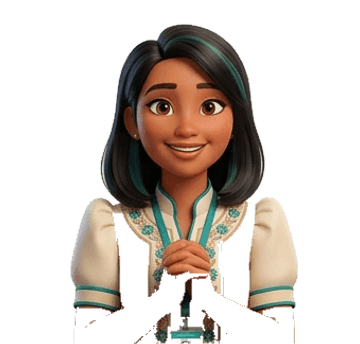
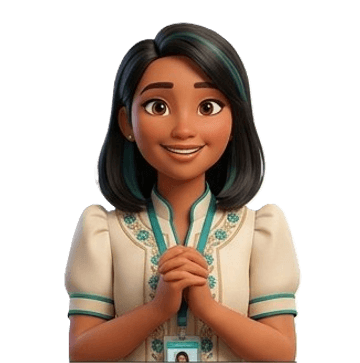
Use the user's cleanly-cut artwork and add a welcome hand-wave
Replaces the artwork with the user's own background-removed PNGs
(fixes the cropped-hands and stray-pixel issues from the previous
processing pipeline) and recalibrates the eye-blink overlay's position
for the new framing.

Adds a hand-wave for the welcome state: the celebrating (raised-arm)
pose is split into two clipped layers - a body layer with the arm
region cut out, and an arm-only layer rotated via CSS animation - so
just the arm swings without duplicating or ghosting the rest of the
image. Scoped to the welcome state specifically so the "correct"
quiz-result state (same source image) keeps its existing hop+sparkle
treatment instead. Also switches the onboarding welcome screen from
state="idle" to state="welcome" so new signups actually see the wave,
which the screen's own copy ("Kumusta! Ako si Teacher Wonna 👋") was
already implying.

Changed region(s): [[0.1528, 0.0581, 0.8556, 1.0]]

diff --git a/components/character/TeacherWonna.tsx b/components/character/TeacherWonna.tsx
@@ -15,7 +15,7 @@ const SIZE_MAP = {
 } as const;
 
 const EXPRESSION_IMAGE: Record<TeacherWonnaState, string> = {
-  welcome: "/wonna/wonna-happy.png",
+  welcome: "/wonna/wonna-celebrating.png",
   idle: "/wonna/wonna-idle.png",
   thinking: "/wonna/wonna-thinking.png",
   correct: "/wonna/wonna-celebrating.png",
@@ -117,13 +117,32 @@ export function TeacherWonna({
     >
       <span className={`${styles.glow} ${glowClassName(state)}`} aria-hidden="true" />
       <div className={`${styles.floatLayer} ${styles[phase]}`} onAnimationEnd={handleAnimationEnd}>
-        <Image
-          src={EXPRESSION_IMAGE[state]}
-          alt=""
-          width={dims.w}
-          height={dims.h}
-          className={styles.image}
-        />
+        {state === "welcome" ? (
+          <>
+            <Image
+              src={EXPRESSION_IMAGE[state]}
+              alt=""
+              width={dims.w}
+              height={dims.h}
+              className={`${styles.image} ${styles.armSplitBase}`}
+            />
+            <Image
+              src={EXPRESSION_IMAGE[state]}
+              alt=""
+              width={dims.w}
+              height={dims.h}
+              className={`${styles.image} ${styles.armSplitArm}`}
+            />
+          </>
+        ) : (
+          <Image
+            src={EXPRESSION_IMAGE[state]}
+            alt=""
+            width={dims.w}
+            height={dims.h}
+            className={styles.image}
+          />
+        )}
         <span className={`${styles.eyelid} ${styles.eyelidLeft}`} aria-hidden="true" />
         <span className={`${styles.eyelid} ${styles.eyelidRight}`} aria-hidden="true" />
       </div>

diff --git a/components/character/TeacherWonna.module.css b/components/character/TeacherWonna.module.css
@@ -89,13 +89,30 @@
   animation: wonna-nudge 380ms ease-out both;
 }
 
+.armSplitBase {
+  object-fit: contain;
+  object-position: center top;
+  clip-path: polygon(0% 0%, 69.4% 0%, 69.4% 55.6%, 100% 55.6%, 100% 100%, 0% 100%);
+}
+
+.armSplitArm {
+  position: absolute;
+  top: 0;
+  left: 0;
+  object-fit: contain;
+  object-position: center top;
+  clip-path: polygon(69.4% 0%, 100% 0%, 100% 55.6%, 69.4% 55.6%);
+  transform-origin: 75% 52.2%;
+  animation: wonna-wave 1.7s ease-in-out 2;
+}
+
 .eyelid {
   position: absolute;
   width: 11%;
   height: 4.5%;
-  top: 36.2%;
+  top: 32.5%;
   border-radius: 50%;
-  background: #b4643d;
+  background: #a65d3d;
   filter: blur(1.5px);
   transform: scaleY(0);
   transform-origin: center;
@@ -104,11 +121,11 @@
 }
 
 .eyelidLeft {
-  left: 28.5%;
+  left: 26.3%;
 }
 
 .eyelidRight {
-  left: 60.5%;
+  left: 64.1%;
 }
 
 .thinkingDots {
@@ -321,6 +338,22 @@
   }
 }
 
+@keyframes wonna-wave {
+  0%,
+  100% {
+    transform: rotate(0deg);
+  }
+  25% {
+    transform: rotate(-14deg);
+  }
+  50% {
+    transform: rotate(10deg);
+  }
+  75% {
+    transform: rotate(-8deg);
+  }
+}
+
 @keyframes wonna-blink {
   0%,
   94%,
@@ -355,6 +388,7 @@
   .glowIncorrect,
   .floatLayer,
   .eyelid,
+  .armSplitArm,
   .dot,
   .sparkle {
     animation: none !important;

diff --git a/app/(auth)/onboarding/page.tsx b/app/(auth)/onboarding/page.tsx
@@ -65,7 +65,7 @@ export default function OnboardingPage() {
   if (step === "welcome") {
     return (
       <div className="flex flex-col items-center space-y-5 text-center">
-        <TeacherWonna state="idle" size="lg" />
+        <TeacherWonna state="welcome" size="lg" />
         <div className="space-y-2">
           <h1 className="text-xl font-bold">Kumusta! Ako si Teacher Wonna 👋</h1>
           <p className="text-sm text-neutral-500">
